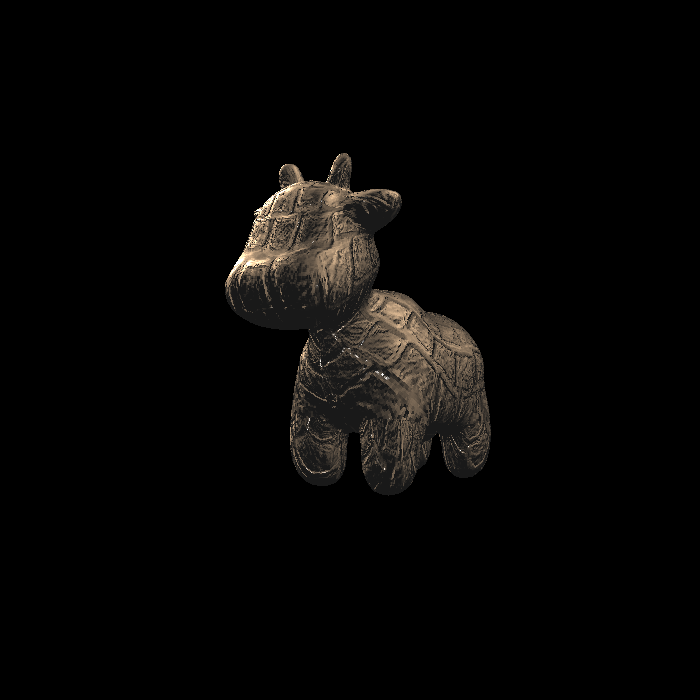
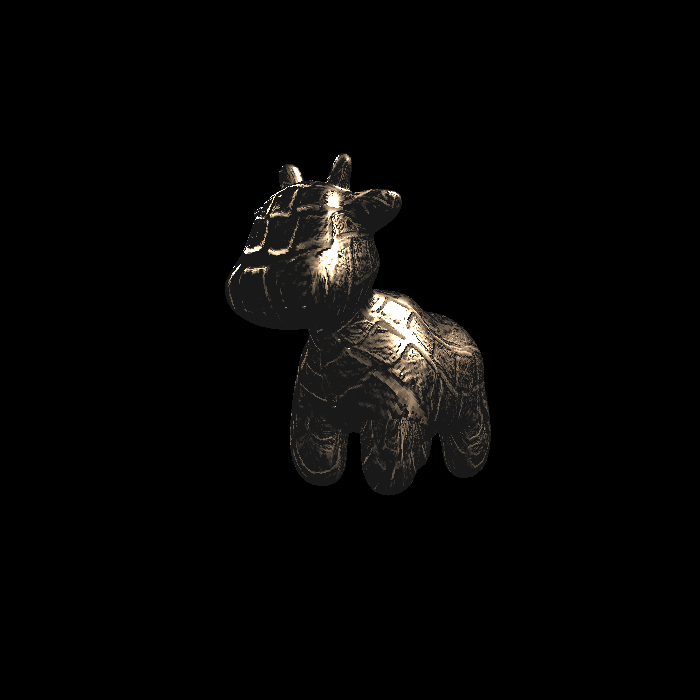
correct displacement

Changed region(s): [[0.3, 0.21, 0.72, 0.69]]

diff --git a/Homework3/Assignment3/main.cpp b/Homework3/Assignment3/main.cpp
@@ -265,7 +265,7 @@ Eigen::Vector3f displacement_fragment_shader(const fragment_shader_payload& payl
 	auto dU = kh * kn * (payload.texture->getColor(saturate(u + 1.0 / w), saturate(v)).norm() - payload.texture->getColor(saturate(u), saturate(v)).norm());
 	auto dV = kh * kn * (payload.texture->getColor(saturate(u), saturate(v + 1.0 / h)).norm() - payload.texture->getColor(saturate(u), saturate(v)).norm());
 	Eigen::Vector3f ln = { -dU, -dV, 1 };
-	point += kn * normal.cwiseProduct(payload.texture->getColor(saturate(u), saturate(v)));
+	point += kn * normal * payload.texture->getColor(saturate(u), saturate(v)).norm();
 	normal = (TBN * ln).normalized();
 	Eigen::Vector3f result_color = { 0, 0, 0 };
 
